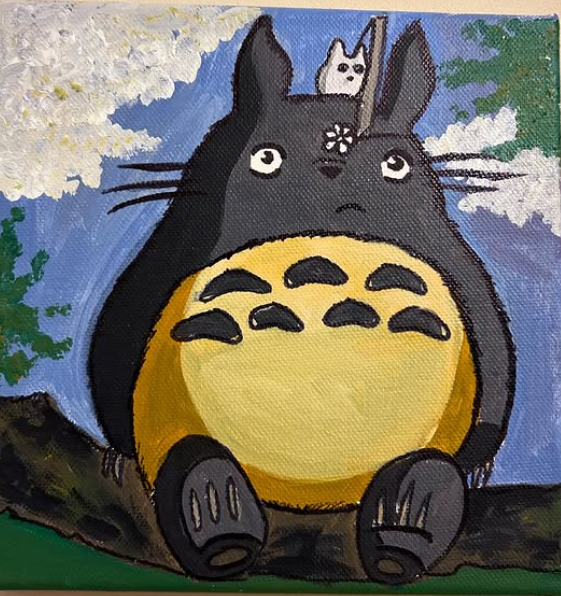
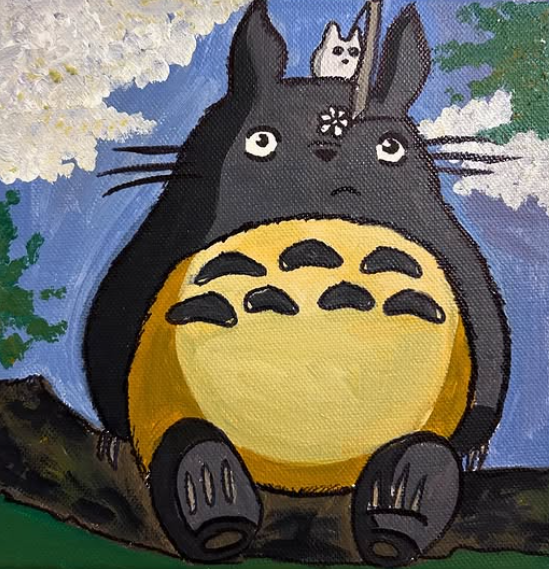
update: add more painting titles and descriptions in gallery.html and edit a painting image

diff --git a/gallery.html b/gallery.html
@@ -217,10 +217,10 @@
           <div class="artwork-card"><div class="artwork-img"><img src="images/painting37.png" data-title="Lost call-40x40 cm" data-desc="<p><em>Акрил върху платно.</em></p><br>Картината представя модерна, анимационна героиня с лилава коса и изразително, леко иронично изражение. До нея е изобразен стар мобилен телефон с надпис „HEY!“, който създава усещане за комуникация и носталгия. Стилът е вдъхновен от поп арт и улично изкуство, с ясни контури и наситени цветове. Малък аксесоар с Hello Kitty добавя игрив и сладък акцент към композицията. Цялостното внушение е съчетание от съвременна култура, хумор и индивидуалност.." /></div></div>
         </div>
         <div class="col-12 col-md-6 col-lg-4">
-          <div class="artwork-card"><div class="artwork-img"><img src="images/painting38.png" data-title="Картина 30" data-desc="Лека и ефирна композиция." /></div></div>
+          <div class="artwork-card"><div class="artwork-img"><img src="images/painting38.png" data-title="Overload- 30x40 cm" data-desc="<p><em>Акрил върху платно.</em></p><br>Картината представлява експлозия от цветове, символи и различни културни препратки, събрани в хаотична, но изразителна композиция. Образите на герои, черепи и графити създават усещане за вътрешен конфликт и бунт. Централният надпис подсказва борба с мислите и идентичността. Контрастните цветове и наслояването на елементи придават динамика и напрежение. Творбата изглежда като визуален дневник на съвременната култура и личните емоции." /></div></div>
         </div>
         <div class="col-12 col-md-6 col-lg-4">
-          <div class="artwork-card"><div class="artwork-img"><img src="images/painting39.png" data-title="Картина 31" data-desc="Модерен абстрактен дизайн." /></div></div>
+          <div class="artwork-card"><div class="artwork-img"><img src="images/painting39.png" data-title="Whimsical Forest Guardian- Totoro - 12x12 cm" data-desc="<p><em>Акрил върху платно.</em></p><br>Тази картина представя очарователно същество на име Totoro, вдъхновено от магическия свят на Studio Ghibli. Седнало спокойно върху клон, то излъчва топлина и невинност със своите големи очи и закръглена форма. Малкият спътник върху главата му добавя нотка на игривост и приятелство. Цветовете са живи и създават усещане за хармония с природата. Произведението носи чувство за уют и детско въображение." /></div></div>
         </div>
         <div class="col-12 col-md-6 col-lg-4">
           <div class="artwork-card"><div class="artwork-img"><img src="images/painting40.png" data-title="Картина 32" data-desc="Геометричен стил." /></div></div>
